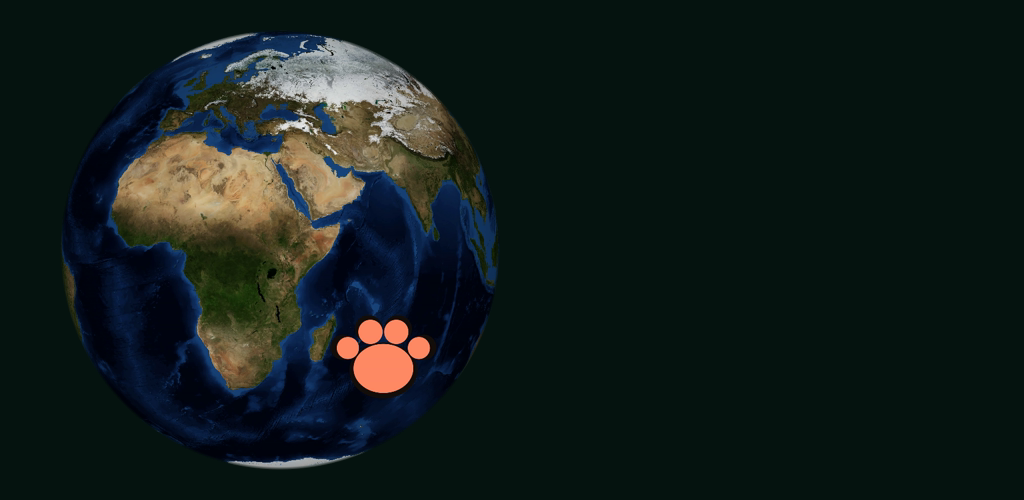
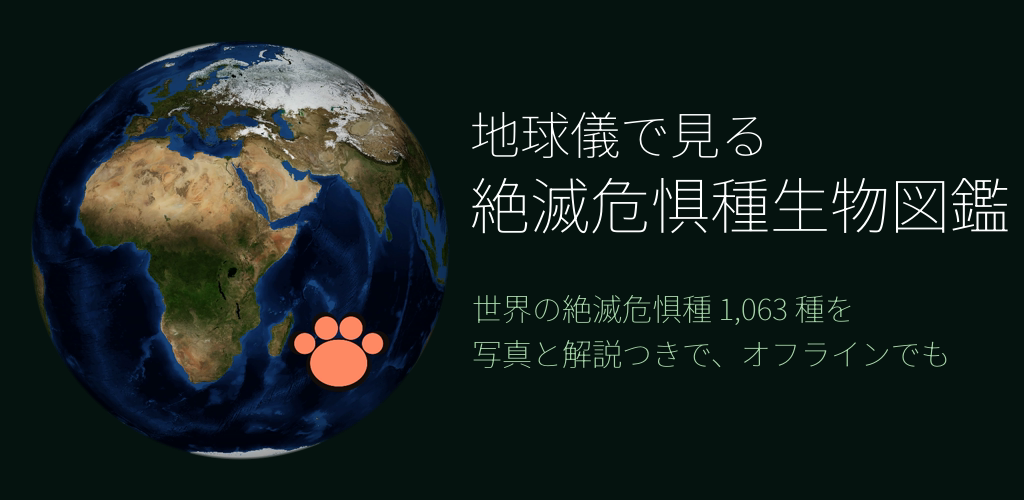
Google Play 提出用の一式: 手順書、2:1 のスクリーンショット 7 枚、アプリ名入りフィーチャーグラフィック

Changed region(s): [[0.0312, 0.06, 1.0, 0.96], [0.7188, 0.69, 0.9375, 0.72]]

diff --git a/docs/play/SUBMISSION.md b/docs/play/SUBMISSION.md
@@ -1,0 +1,66 @@
+# Google Play 提出手順書(v1.0.1)
+
+このフォルダ(`docs/play/`)に、Play Console に入力・アップロードするものを一式まとめています。
+AAB / APK / mapping は Git に含めず、`dist/play-v1.0.1/`(ローカル)と GitHub Release の添付にあります。
+
+| 用途 | ファイル |
+|---|---|
+| アプリ本体(Play にアップロード) | `dist/play-v1.0.1/animal_planet-v1.0.1.aab`(署名済み、約 92MB)／ [Release v1.0.1](https://github.com/hatake716/animal_planet/releases/tag/v1.0.1) |
+| 難読化マッピング(クラッシュ解析用、任意) | `dist/play-v1.0.1/mapping-v1.0.1.txt` |
+| 動作確認用 APK | `dist/play-v1.0.1/animal_planet-v1.0.1.apk` |
+| ストア掲載文(アプリ名・簡単な説明・詳しい説明・新機能) | [`LISTING.md`](LISTING.md) |
+| 申告フォームの回答(データセーフティ・コンテンツレーティング・アプリのコンテンツ) | [`FORMS.md`](FORMS.md) |
+| アプリアイコン 512×512 | `icon_512.png` |
+| フィーチャーグラフィック 1024×500 | `feature_1024x500.png` |
+| スマートフォン用スクリーンショット 1080×2160(7 枚) | `screenshots/01_globe.png` 〜 `07_filtered.png` |
+| プライバシーポリシー URL | https://hatake716.github.io/animal_planet/PRIVACY/ |
+| 出典・ライセンス(審査での問い合わせに備えて) | [`../../NOTICE.md`](../../NOTICE.md)、[`../CREDITS.md`](../CREDITS.md) |
+
+## 1. 事前準備(Play Console)
+
+1. Google Play デベロッパーアカウント(登録料あり)。
+2. **有料アプリを販売するには販売者アカウント(お支払いプロファイル)が必要**。Play Console の「設定 → お支払いプロファイル」で作成し、税務情報を登録する。
+3. アップロード鍵はローカルの `animal-planet-release.jks`(`keystore.properties` にパスワード)。**紛失厳禁**。Play App Signing を使う(既定)と、この鍵は「アップロード鍵」として登録される。
+
+## 2. アプリの作成
+
+- 「アプリを作成」→ アプリ名: **地球儀で見る絶滅危惧種生物図鑑**、デフォルトの言語: 日本語(ja-JP)、アプリ/ゲーム: アプリ、無料/有料: **有料**(無料で公開すると後から有料にできない)。
+
+## 3. ダッシュボードの「アプリをセットアップ」
+
+Play Console の設問と回答は [`FORMS.md`](FORMS.md) の順番どおり。要点:
+
+- プライバシーポリシー: 上記 URL。
+- アプリのアクセス権: 「すべての機能が特別なアクセス権なしで利用可能」。
+- 広告: 「広告を含まない」。
+- コンテンツのレーティング: IARC アンケート(FORMS.md の回答)。
+- ターゲット ユーザーおよびコンテンツ: **13 歳以上**(YouTube をアプリ内ブラウザで表示するため 13 歳未満を含めない)。
+- ニュースアプリ: いいえ。COVID-19 接触追跡: いいえ。データセーフティ: 収集・共有なし(FORMS.md)。
+- 政府アプリ: いいえ。金融機能: なし。健康: 該当なし。
+- アプリのカテゴリ: **教育**。タグは任意(教育、参考資料、動物 など)。
+- 連絡先: デベロッパーのメールアドレス(Play Console に登録したもの)。
+
+## 4. ストアの設定(メインのストアの掲載情報)
+
+[`LISTING.md`](LISTING.md) の文言をコピーする。
+
+- アプリ名(30 文字以内)、簡単な説明(80 文字以内)、詳しい説明(4000 文字以内)。
+- グラフィック: アイコン `icon_512.png`、フィーチャーグラフィック `feature_1024x500.png`、スマートフォンのスクリーンショット `screenshots/*.png`(2〜8 枚。1080×2160 は「最大辺が最小辺の 2 倍以下」の規則を満たす)。7 インチ / 10 インチ タブレット用は任意。
+
+## 5. リリース
+
+1. 「テスト → 内部テスト」で新しいリリースを作成し、AAB をアップロード。リリースノートは LISTING.md の「新機能」。
+2. 内部テストのテスターとして自分の Google アカウントを追加し、Play 経由でインストールして動作確認(R8 縮小版で地球儀・検索・絞り込み・詳細・写真・Wikipedia・動画)。
+3. 「製品版」を作成して同じ AAB を昇格(または再アップロード)。国/地域を選択(日本、必要なら全世界)。
+4. 「収益化 → 商品 → アプリの価格」で価格を設定(国ごとの価格は自動換算または個別設定)。
+5. 審査に送信。初回審査は数日かかることがある。
+
+## 6. 審査で聞かれやすい点への備え
+
+- 写真・解説の権利: NOTICE.md と docs/CREDITS.md に出典・ライセンスを明記(CC0 / PD / CC BY / CC BY-SA のみ、作者名をアプリ内表示)。
+- 「Animal Planet」の商標: アプリ名・アイコン・applicationId(`io.github.hatake716.endangeredglobe`)のいずれにも含めていない(リポジトリ名のみ)。
+- 外部コンテンツ: Wikipedia / YouTube / Wikimedia Commons はアプリ内ブラウザで表示するだけで、埋め込み再生やスクレイピングはしていない。
+
+## 7. 更新時
+
+`app/build.gradle.kts` の `versionCode` を上げ(`versionName` も更新)、`./gradlew bundleRelease` で AAB を作り直して製品版に新しいリリースを作成する。データ(species.json / 写真)を更新した場合は `tools/validate.py` と `tools/make_credits.py` を実行して `docs/CREDITS.md` も更新する。

diff --git a/docs/PLAY_STORE.md b/docs/PLAY_STORE.md
@@ -1,6 +1,7 @@
 # Google Play 公開の準備チェックリスト
 
 このアプリを Google Play で(有料アプリとして)公開するための、ストア掲載情報とコンプライアンスのまとめ。
+**提出用の一式(手順書・掲載文・申告フォームの回答・グラフィック・スクリーンショット)は [`docs/play/SUBMISSION.md`](play/SUBMISSION.md) にまとめてあります。**
 
 ## 現在の状態
 
@@ -33,7 +34,7 @@ Play App Signing を使う場合、このローカル鍵は「アップロード
   > ・地図画像・写真・解説はアプリに同梱しているため、図鑑の閲覧はオフラインでも動きます。
   >
   > 写真は Wikimedia Commons の自由ライセンス画像(作者・ライセンスをアプリ内に表示)、解説は Wikipedia、分類と評価は Wikidata、地図画像は NASA Blue Marble(パブリックドメイン)です。
-- **スクリーンショット**: `docs/images/01_globe.png` 〜 `06_photo.png`(1080×2400。Play では 320〜3840px の範囲で受理)。
+- **スクリーンショット**: `docs/play/screenshots/01_globe.png` 〜 `07_filtered.png`(1080×2160。Play の規則「最大辺は最小辺の 2 倍以下」に合わせたサイズ。`docs/images/` の 1080×2400 は README 用)。
 - **アイコン**: `docs/play/icon_512.png`(512×512)。
 - **フィーチャーグラフィック**: `docs/play/feature_1024x500.png`(1024×500)。
 
